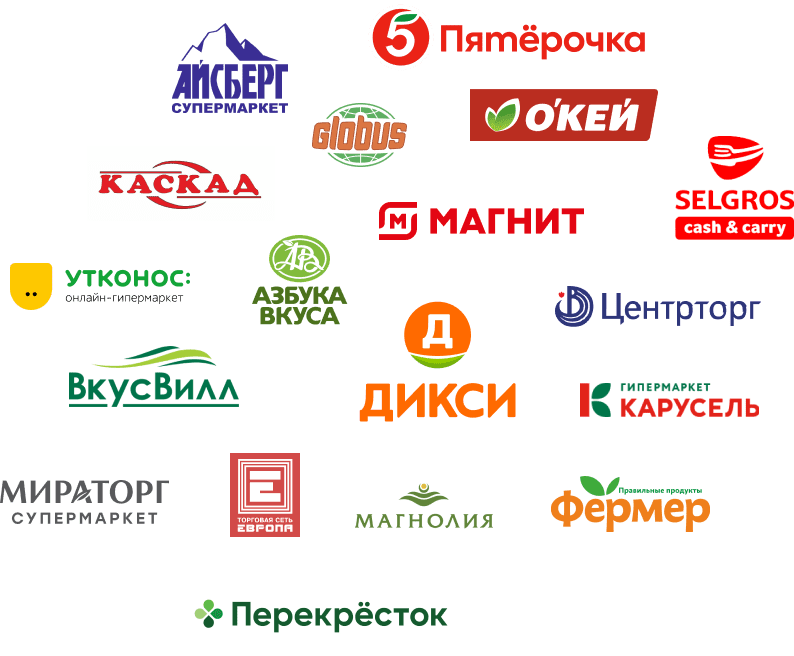
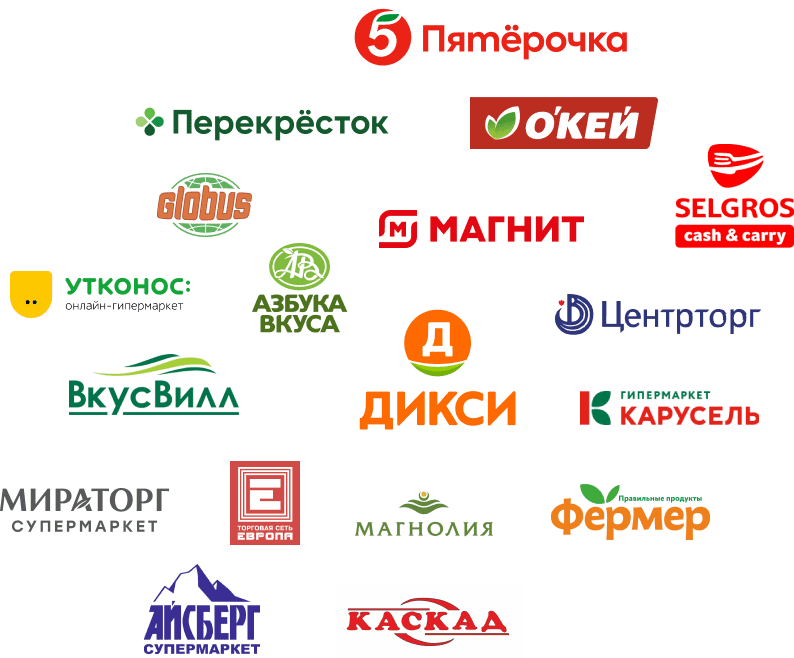
правка слайдера с брендами

diff --git a/app/css/style.css b/app/css/style.css
@@ -3676,6 +3676,10 @@ main.main-container {
   position: relative;
 }
 
+.brands-slider .slick-track {
+  margin: 0 auto;
+}
+
 .brands-slider .slider > button {
   display: none !important;
 }

diff --git a/app/sass/sliders/sliders.scss b/app/sass/sliders/sliders.scss
@@ -24,6 +24,9 @@
 	.uk-container {
 		position: relative;
 	}
+	.slick-track {
+		margin: 0 auto;
+	}
 	.slider {
 		&>button {
 			display: none !important;
